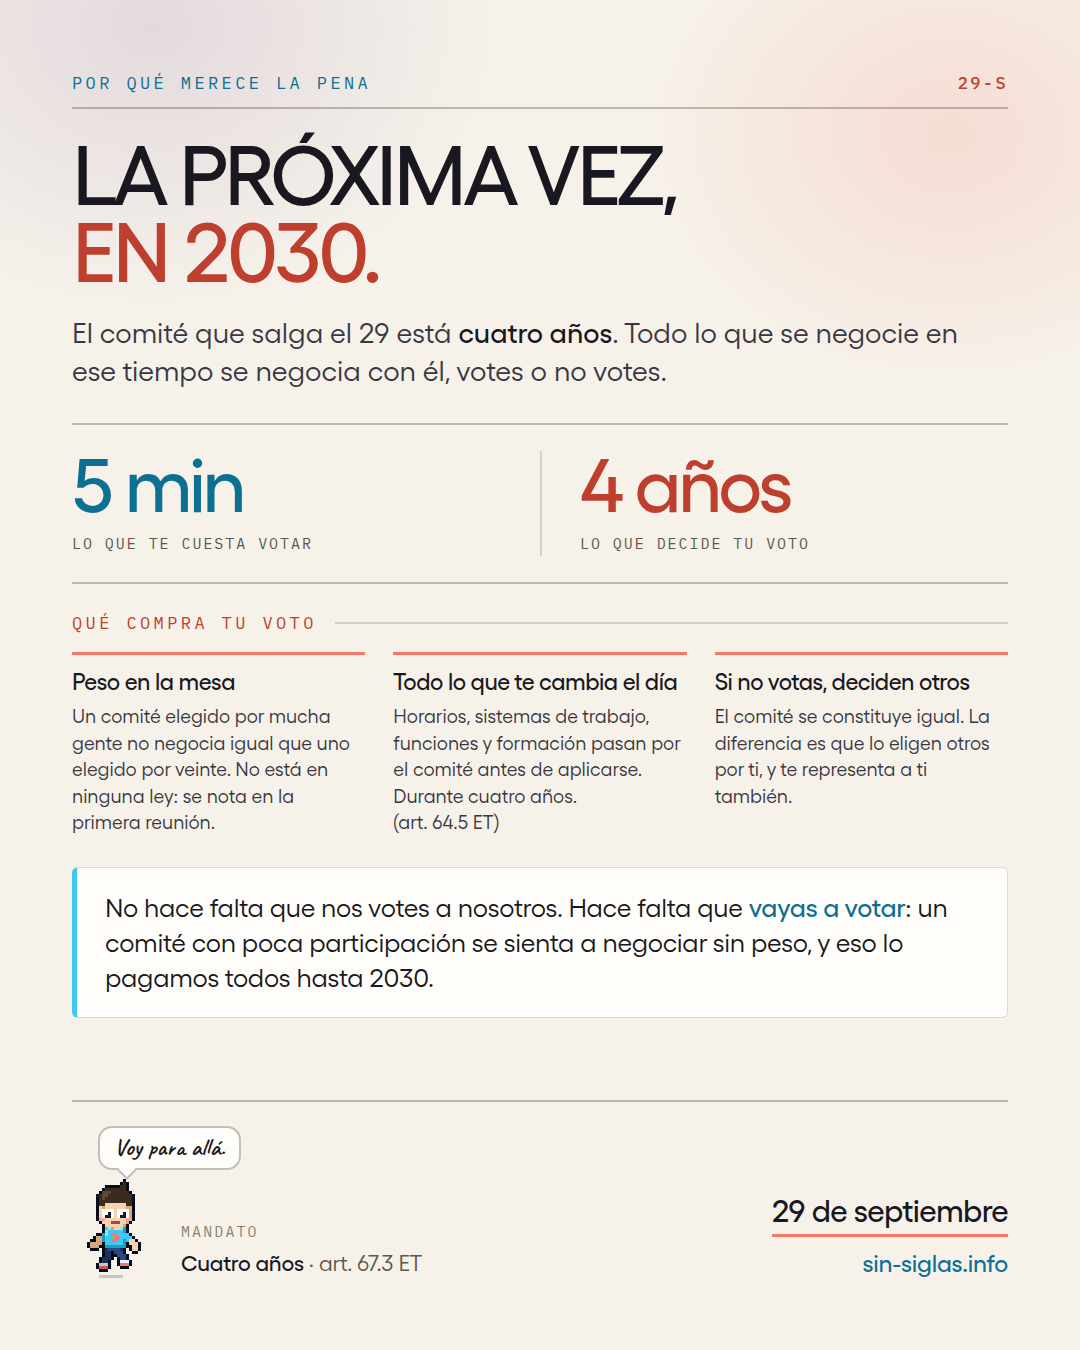
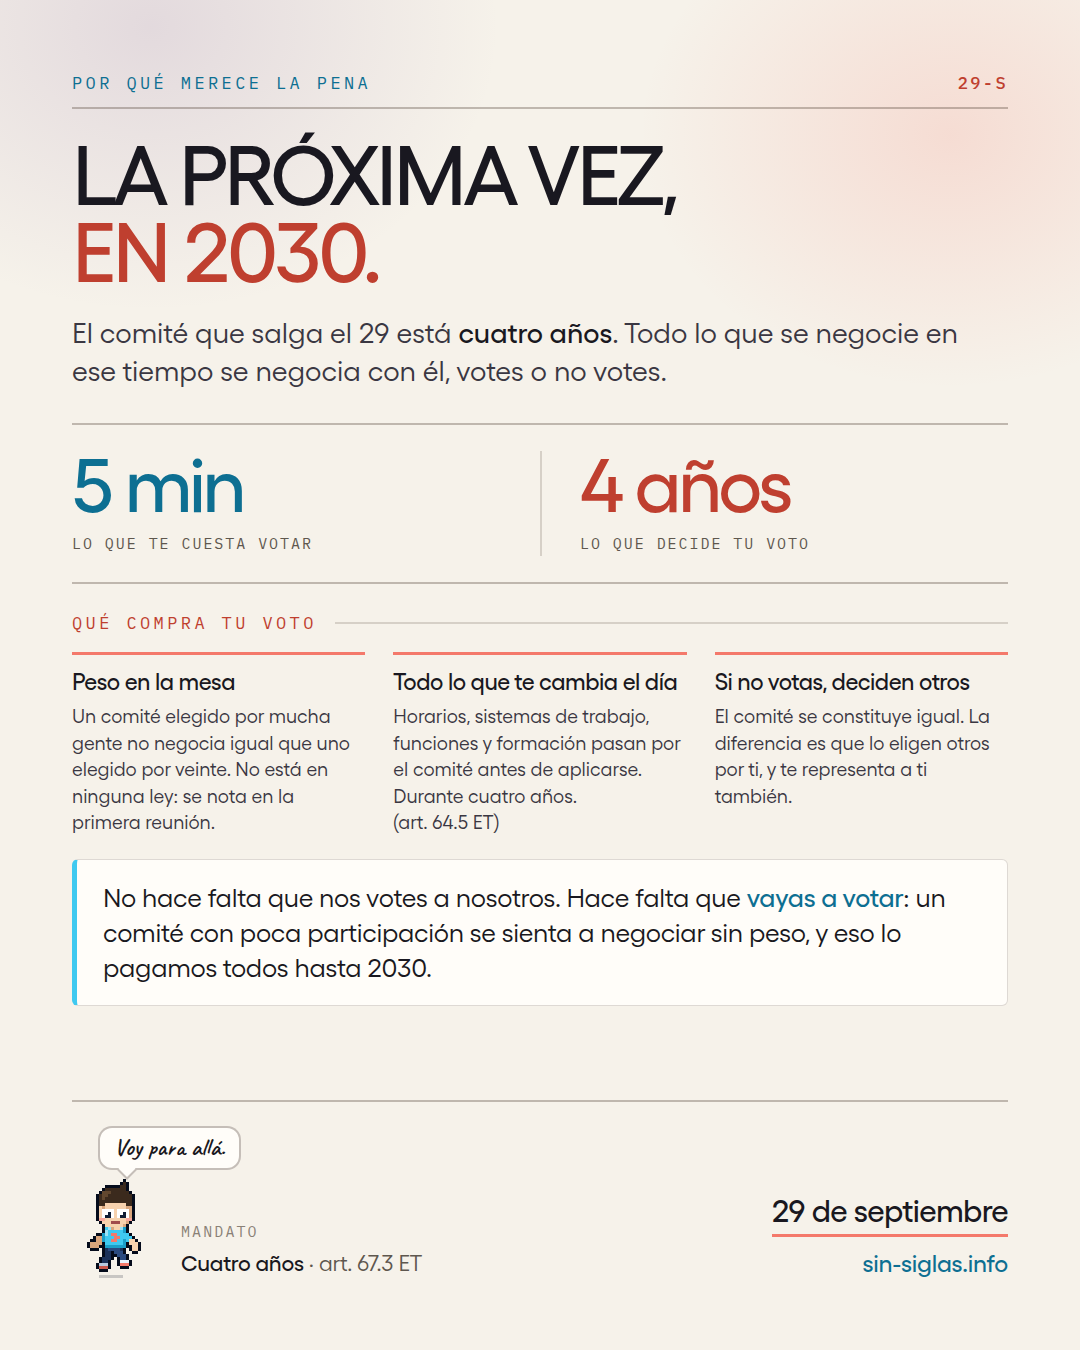
Marca en coral lo anónimo del buzón y cierra la última llamada
En el cartel del buzón, "anónima" en la bajada y "ES ANÓNIMO" bajo el
QR pasan a coral. Iban en el gris del cuerpo, y es la palabra que decide
si alguien se molesta en escribir: si no se ve, el QR no sirve de nada.

La última llamada dice ahora que es la última, con el artículo que lo
obliga: "la ley corta la propaganda el día antes de votar". Es coherente
con el resto de la campaña, que cuenta hasta las reglas del juego, y
evita que alguien espere un cartel el lunes 28. La cabecera pasa a
"Última llamada · viernes 25".

Ese texto desbordaba el pie, así que el bloque de datos y el remate
ceden 14 px.

QR verificado otra vez desde los dos PNG finales.

Changed region(s): [[0.0917, 0.6533, 0.8861, 0.7467]]

diff --git a/carteles/carteles.html b/carteles/carteles.html
@@ -98,6 +98,7 @@ body.solo .cartel.elegido{display:flex}
   margin:22px 0 0;max-width:36ch
 }
 .bajada b{color:var(--texto);font-weight:500}
+.bajada i{font-style:normal;color:var(--coral);font-weight:500}
 .bajada--ancha{max-width:none}
 
 /* ---------------- rótulo de sección ---------------- */
@@ -192,6 +193,10 @@ body.solo .cartel.elegido{display:flex}
 .qr figcaption{
   font-family:var(--mono);font-size:var(--t-mini);letter-spacing:.1em;text-transform:uppercase;
   color:var(--apagado);margin-top:16px;text-align:center;line-height:1.5
+}
+.qr figcaption i{
+  font-style:normal;display:block;font-weight:500;font-size:19px;letter-spacing:.22em;
+  color:var(--coral);margin-bottom:6px
 }
 .qr figcaption b{display:block;color:var(--cian);letter-spacing:.02em;text-transform:none;
   font-family:var(--display);font-size:22px;margin-top:6px}
@@ -329,7 +334,7 @@ body.solo .cartel.elegido{display:flex}
 .puertas p b{color:var(--texto);font-weight:500}
 
 /* 09 · la víspera: el sello manda */
-.vispera{display:grid;grid-template-columns:1fr 300px;gap:40px;align-items:center;margin-top:30px}
+.vispera{display:grid;grid-template-columns:1fr 300px;gap:40px;align-items:center;margin-top:24px}
 .sello{width:300px;height:300px;transform:rotate(-5deg)}
 .sello__aro{fill:none;stroke:var(--coral-vivo);stroke-width:2.4}
 .sello__pica{fill:none;stroke:rgba(13,111,146,.5);stroke-width:5.5;stroke-dasharray:1.6 10.4}
@@ -340,7 +345,7 @@ body.solo .cartel.elegido{display:flex}
 .sello__t1{font-family:var(--display);font-weight:500;font-size:20px;fill:var(--texto);text-anchor:middle}
 .sello__t2{font-family:var(--mono);font-size:9.5px;fill:var(--texto-2);text-anchor:middle;letter-spacing:.16em}
 .sello__t3{font-family:var(--mono);font-size:9.5px;fill:var(--coral);text-anchor:middle}
-.datos{list-style:none;margin:0;padding:0;display:grid;gap:20px}
+.datos{list-style:none;margin:0;padding:0;display:grid;gap:16px}
 .datos li{border-top:1px solid var(--linea);padding-top:14px}
 .datos strong{
   display:block;font-family:var(--mono);font-weight:500;font-size:var(--t-mini);
@@ -349,11 +354,16 @@ body.solo .cartel.elegido{display:flex}
 .datos p{margin:0;font-size:var(--t-cuerpo);line-height:1.42;color:var(--texto-2)}
 .datos p b{color:var(--texto);font-weight:500}
 .remate{
-  margin-top:30px;background:var(--panel);border:1px solid var(--linea);
-  border-left:5px solid var(--cian-vivo);border-radius:6px;padding:22px 28px;
+  margin-top:22px;background:var(--panel);border:1px solid var(--linea);
+  border-left:5px solid var(--cian-vivo);border-radius:6px;padding:20px 26px;
   font-size:26px;line-height:1.35;letter-spacing:-.01em
 }
 .remate b{color:var(--cian);font-weight:500}
+.ultimo{
+  margin-top:12px;font-family:var(--mono);font-size:var(--t-mini);letter-spacing:.06em;
+  line-height:1.5;color:var(--apagado)
+}
+.ultimo b{color:var(--coral);font-weight:500}
 </style>
 </head>
 <body>
@@ -368,7 +378,7 @@ body.solo .cartel.elegido{display:flex}
   <h1 class="titular">Primero tú.<em>Luego el programa.</em></h1>
   <p class="bajada bajada--ancha">
     Somos once compañerxs y no traemos un programa escrito de fuera. Antes de prometerte nada,
-    queremos saber <b>qué cambiarías tú</b>. Una pregunta, y es anónima.
+    queremos saber <b>qué cambiarías tú</b>. Una pregunta, y es <i>anónima</i>.
   </p>
 
   <div class="buzon">
@@ -382,7 +392,7 @@ body.solo .cartel.elegido{display:flex}
     </ul>
     <figure class="qr">
       <img src="qr-buzon.svg" alt="Código QR al buzón anónimo de la candidatura.">
-      <figcaption>Apunta con la cámara<b>sin-siglas.info/buzon</b></figcaption>
+      <figcaption><i>Es anónimo</i>Apunta con la cámara<b>sin-siglas.info/buzon</b></figcaption>
     </figure>
   </div>
 
@@ -882,7 +892,7 @@ body.solo .cartel.elegido{display:flex}
      viernes 25, y por eso dice "el martes" y no "mañana".
      ================================================================== -->
 <section class="cartel cartel--coral" id="c9">
-  <div class="tapa"><span>Última llamada · el martes se vota</span><b>29-S</b></div>
+  <div class="tapa"><span>Última llamada · viernes 25</span><b>29-S</b></div>
 
   <h1 class="titular titular--corto">El martes<em>se vota.</em></h1>
 
@@ -930,6 +940,8 @@ body.solo .cartel.elegido{display:flex}
     Y si no nos votas a nosotros, <b>vota</b>. Un comité elegido por poca gente se sienta a
     negociar sin peso, y eso lo pagamos todos durante cuatro años.
   </p>
+  <p class="ultimo"><b>Este es el último cartel que te mandamos:</b> la ley corta la propaganda
+    el día antes de votar. Nos vemos el martes en la urna. · art. 8.4 RD 1844/1994</p>
 
   <footer class="pie">
     <div class="compi"><p class="compi__globo">¡El martes!</p><canvas data-pose="baile" data-tt="500"></canvas></div>
